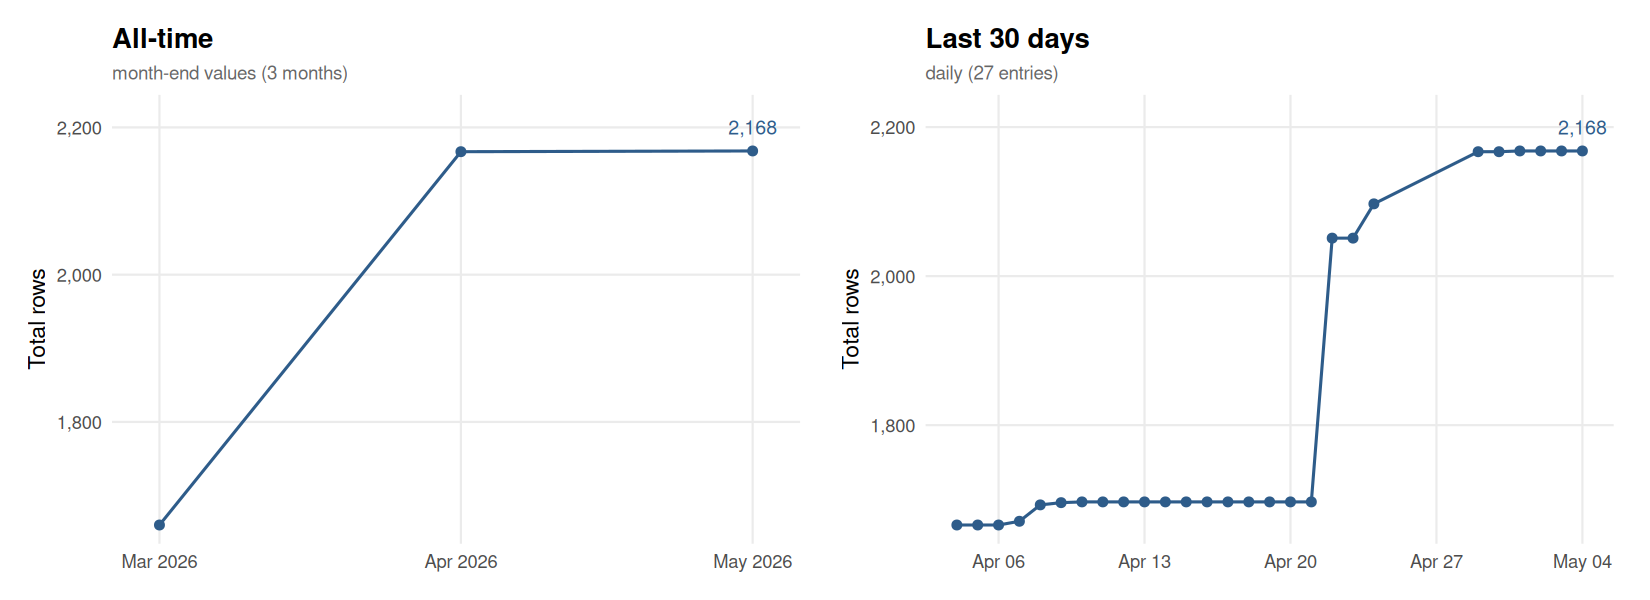
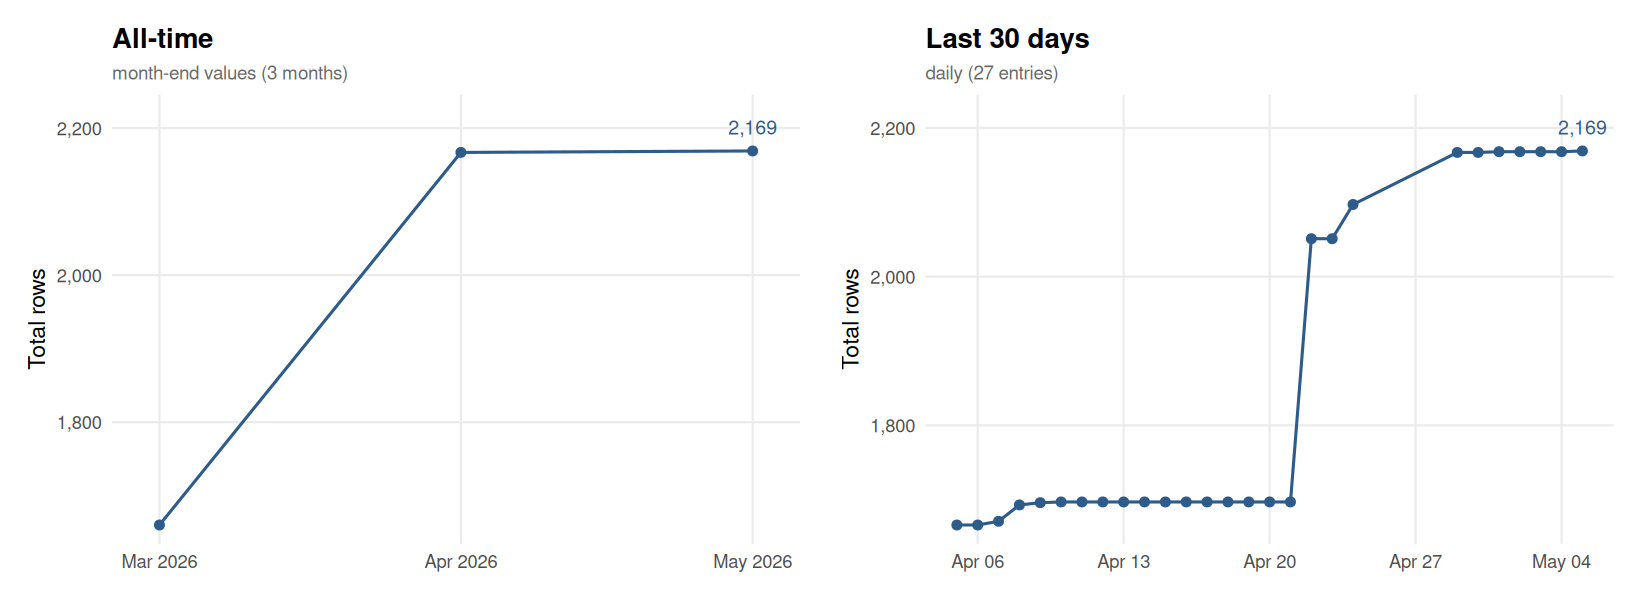
Update flora.csv [automated]

diff --git a/README.md b/README.md
@@ -438,14 +438,15 @@ For API issues:
 This chart is automatically updated after each pipeline run, showing the size of `output/flora.csv` over time.
 
 <!-- FLORA_UPDATE_LOG_START -->
-> **Latest (2026-05-04):** Total = 2,168 | Replications = 2,159 | Reproductions = 9
+> **Latest (2026-05-05):** Total = 2,169 | Replications = 2,160 | Reproductions = 9
 
 ![FLoRA dataset size over time](output/flora_history.png)
 
-<details><summary>Full history (46 entries)</summary>
+<details><summary>Full history (47 entries)</summary>
 
 | Date | Total | Replications | Reproductions |
 |------|------:|-------------:|--------------:|
+| 2026-05-05 | 2169 | 2160 | 9 |
 | 2026-05-04 | 2168 | 2159 | 9 |
 | 2026-05-03 | 2168 | 2159 | 9 |
 | 2026-05-02 | 2168 | 2159 | 9 |
